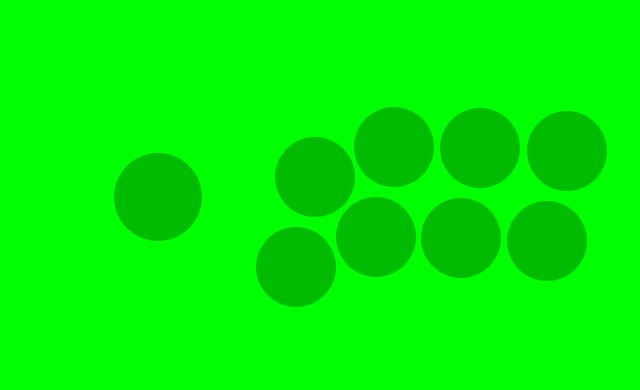
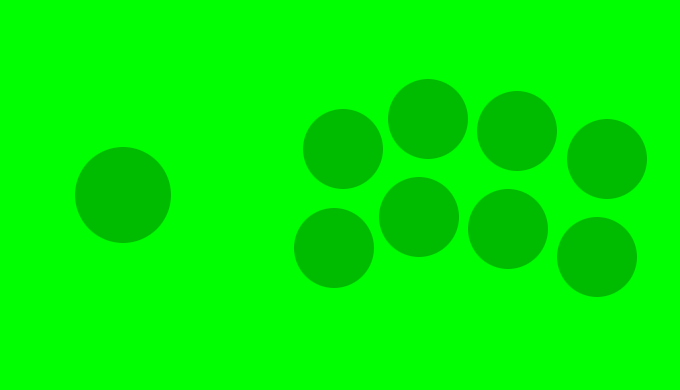
feat: Update traditional layout
Traditional layout now uses the Etokki Omni as the basis for its button placement.

Changed region(s): [[0.375, 0.1846, 0.9375, 0.8], [0.0938, 0.3692, 0.3125, 0.6462], [0.9375, 0.4, 0.9688, 0.4615]]

diff --git a/fightsticker/__init__.py b/fightsticker/__init__.py
@@ -28,28 +28,30 @@ LAYOUT_TRADITIONAL = {
     "background": (0, 0),
     "select": (50, 318),
     "start": (50, 318),
-    "stick": (118, 153),
-    "a": (256, 83),
-    "b": (336, 113),
-    "x": (275, 173),
-    "y": (354, 203),
-    "rb": (440, 202),
-    "lb": (527, 199),
-    "rt": (421, 112),
-    "lt": (507, 109),
+    "guide": (50, 318),
+    "stick": (83, 155),
+    "x": (303, 201),
+    "y": (388, 231),
+    "rb": (477, 219),
+    "lb": (567, 191),
+    "a": (294, 102),
+    "b": (379, 133),
+    "rt": (468, 121),
+    "lt": (557, 93),
 }
 # Traditional layout images
 IMAGES_TRADITIONAL = {
     "background": "background.png",
     "select": "transparent.png",
     "start": "transparent.png",
+    "guide": "transparent.png",
     "stick": "button.png",
-    "a": "button.png",
-    "b": "button.png",
     "x": "button.png",
     "y": "button.png",
     "rb": "button.png",
     "lb": "button.png",
+    "a": "button.png",
+    "b": "button.png",
     "rt": "button.png",
     "lt": "button.png",
 }
@@ -58,6 +60,7 @@ LAYOUT_LEVERLESS = {
     "background": (0, 0),
     "select": (50, 318),
     "start": (50, 318),
+    "guide": (50, 318),
     "up": (237, 10),
     "down": (133, 217),
     "left": (47, 217),
@@ -76,6 +79,7 @@ IMAGES_LEVERLESS = {
     "background": "backgroundlv.png",
     "select": "transparent.png",
     "start": "transparent.png",
+    "guide": "transparent.png",
     "up": "buttonlvlg.png",
     "down": "buttonlv.png",
     "left": "buttonlv.png",
@@ -90,7 +94,7 @@ IMAGES_LEVERLESS = {
     "lt": "buttonlv.png",
 }
 # Window width
-WINDOW_WIDTH = 640
+WINDOW_WIDTH = 680
 # Window height
 WINDOW_HEIGHT = 390
 

diff --git a/fightsticker/fightstick.py b/fightsticker/fightstick.py
@@ -393,7 +393,7 @@ class SceneManager:
         """
         Enforce aspect ratio by readjusting the window height
         """
-        aspect_ratio = 1.641025641
+        aspect_ratio = WINDOW_WIDTH / WINDOW_HEIGHT
         target_width = int(self.window.height * aspect_ratio)
         target_height = int(self.window.width / aspect_ratio)
 
@@ -451,7 +451,7 @@ def run(layout, config, parent=None) -> None:
     # the pyglet window inherits the icon of the application
     if parent:
         parent.close()
-
+    # Instantiate the scene manager
     scene_manager = SceneManager(
         window_instance=window, layout=layout, config=config
     )
@@ -459,4 +459,5 @@ def run(layout, config, parent=None) -> None:
     pyglet.clock.schedule_interval(
         scene_manager.enforce_aspect_ratio, 0.3
     )
+    # Run the application
     pyglet.app.run()
